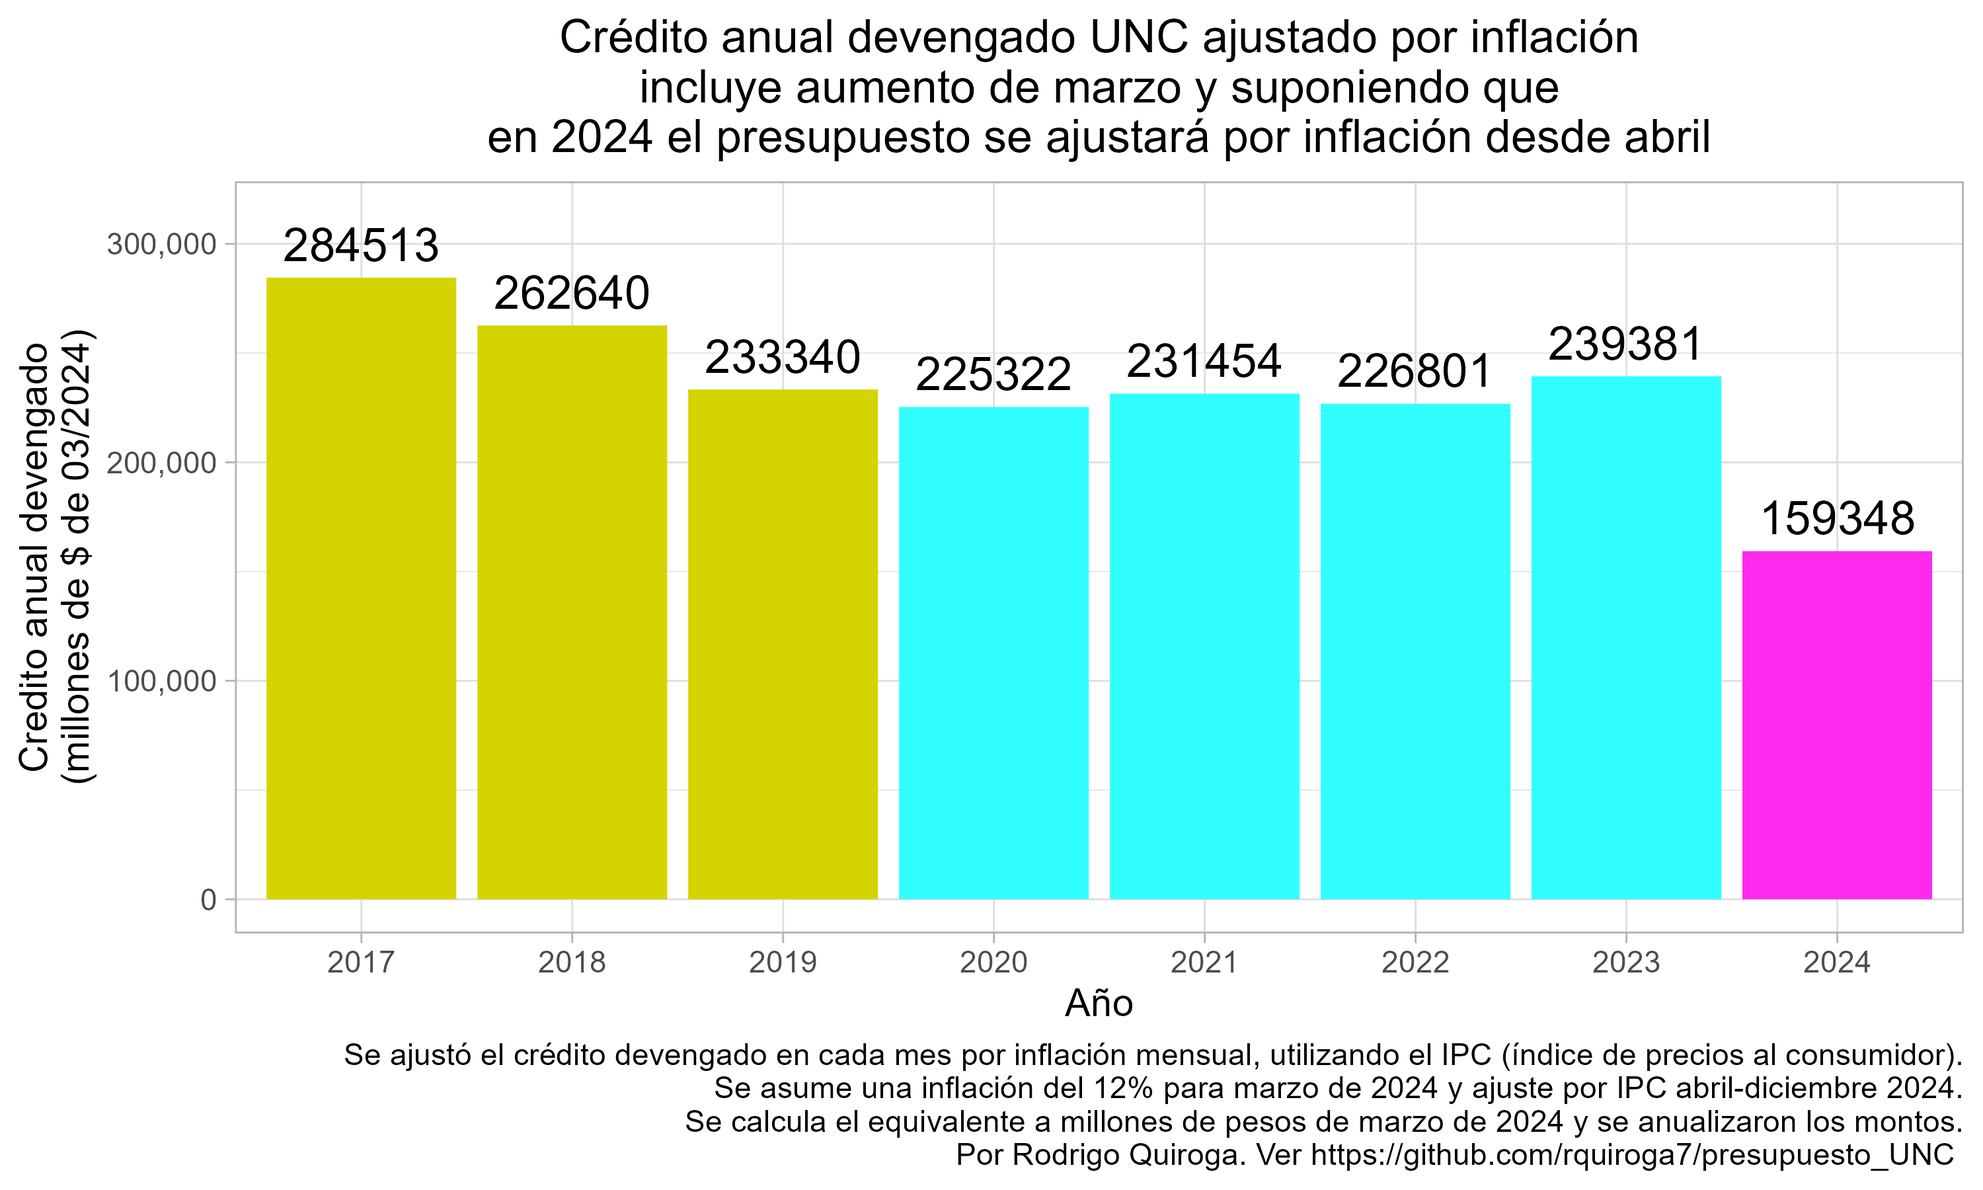
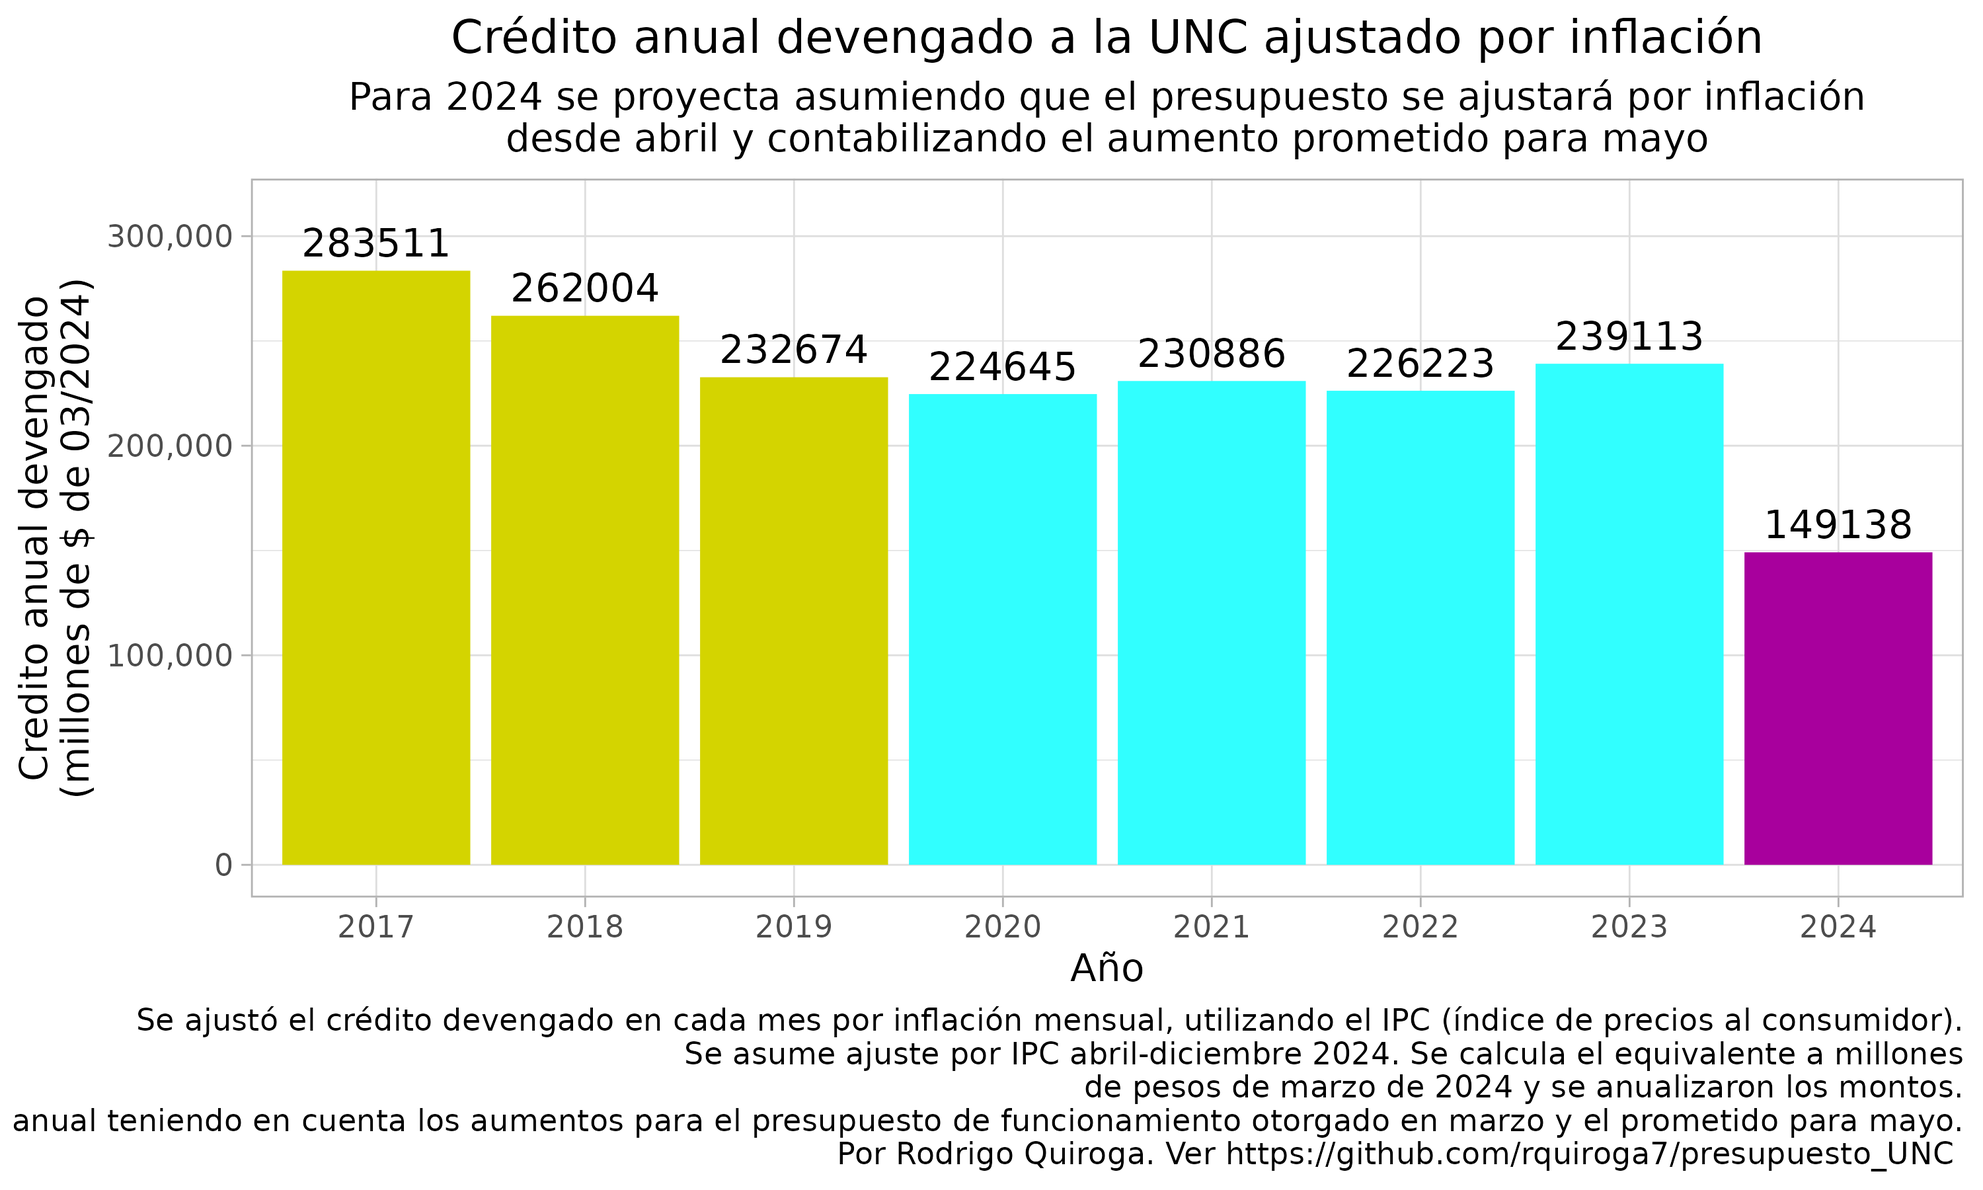
actualizo datos anuales con el aumento anunciado para mayo

diff --git a/README_UNC.md b/README_UNC.md
@@ -59,13 +59,15 @@ En el siguiente gráfico observamos el presupuesto mensual real (ajustado por in
 
 ![plot](https://github.com/rquiroga7/presupuesto_UNC/blob/main/plot_unc_14_70p_prom.png)
 
-Vemos que en Marzo de 2024, se otorgó un aumento del 70% del presupuesto mensual de funcionamiento equivalente a aprox 268 millones de pesos. Sin embargo, al ajustar por inflación, observamos que el presupuesto mensual para funcionamiento quedó licuado por la inflación. El monto devengado para funcionamiento en marzo representa aprox el 54% del promedio mensual devengado en 2023. Para equipararse con ese promedio, el aumento debiera haber sido no de 268 millones sino de 813 millones!
+Vemos que en Marzo de 2024, se otorgó un aumento del 70% del presupuesto mensual de funcionamiento equivalente a aprox 268 millones de pesos. Sin embargo, al ajustar por inflación, observamos que el presupuesto mensual para funcionamiento quedó licuado por la inflación. El monto devengado para funcionamiento en marzo representa aprox el 54% del promedio mensual devengado en 2023.
 
-Lo que significa esto a fines prácticos es que la UNC ha tenido que suspender actividades y/o está gastando ahorros para cubrir esa diferencia mensual entre lo que recibía el año pasado y éste. Esa diferencia fue de aprox 700 millones en enero, 750 millones en febrero y 550 millones en marzo. La situación es crítica! No puede ni debe la UNC continuar suspendiendo actividades de extensión, becas ni investigación, ni tampoco gastando ahorros que no tenían como destino original pagar la luz y otros gastos corrientes, sino servir para afrontar alguna emergencia, mejoras y refacciones edilicias o la construcción de nuevos edificios.
+Lo que significa esto a fines prácticos es que la UNC ha tenido que suspender actividades y/o está gastando ahorros para cubrir esa diferencia mensual entre lo que recibía el año pasado y éste. Esa diferencia fue de aprox 800 millones en enero, 850 millones en febrero y 600 millones en marzo. La situación es crítica! No puede ni debe la UNC continuar suspendiendo actividades de extensión, becas ni investigación, ni tampoco gastando ahorros que no tenían como destino original pagar la luz y otros gastos corrientes, sino servir para afrontar alguna emergencia, mejoras y refacciones edilicias o la construcción de nuevos edificios.
 
-El nuevo aumento que prometió el gobierno para mayo es de la misma cantidad nominal del aumento de marzo, es decir aprox 268 millones para la UNC. Previendo una inflación de 8% en abril y mayo, el presupuesto de funcionamiento de mayo sería aprox de 920 millones, pero serían necesarios 1400 millones para equiparar los montos de 2023. Seguiríamos necesitando un aumento de 480 millones adicionales!
+El nuevo aumento que prometió el gobierno para mayo es de la misma cantidad nominal del aumento de marzo, es decir aprox 268 millones para la UNC. El presupuesto de funcionamiento de mayo sería aprox de 920 millones, pero estimando una inflación de 8% en abril y mayo, serían necesarios 1500 millones para equiparar los montos de 2023. 
 
-Además, vale aclarar que con los [aumentos de tarifas de servicios previstos para 2024](https://www.infobae.com/economia/2024/04/05/tarifas-de-gas-todo-lo-que-hay-que-saber-y-de-cuanto-seran-los-nuevos-aumentos/), y el hecho de que [el gobierno eliminó a las instituciones educativas de los subsidios de energía eléctrica](https://www.datadiario.com/sociedad/aumentan-las-facturas-de-luz-para-usuarios-de-mayores-ingresos-20242518120), incluso un nuevo aumento del 120% podría ser insuficiente para afrontar los costos operativos del año 2024.
+Es decir, para equiparar el presupuesto de funcionamiento 2023, el aumento de mayo debería ser de 848 millones en lugar de los 268 millones que anunció el gobierno.
+
+Además, vale aclarar que con los [aumentos de tarifas de servicios previstos para 2024](https://www.infobae.com/economia/2024/04/05/tarifas-de-gas-todo-lo-que-hay-que-saber-y-de-cuanto-seran-los-nuevos-aumentos/), y el hecho de que [el gobierno eliminó a las instituciones educativas de los subsidios de energía eléctrica](https://www.datadiario.com/sociedad/aumentan-las-facturas-de-luz-para-usuarios-de-mayores-ingresos-20242518120), incluso un nuevo aumento del 120% del presupuesto de funcionamiento podría ser insuficiente para afrontar los costos operativos del año 2024.
 
 Como vemos, es absolutamente falso lo que declaró el Secretario de Educación Carlos Torrendel el 8 de abril [aquí](https://twitter.com/somoscorta/status/1777322866268139561). Sin dudas existe una política de desfinanciamiento presupuestario de las Universidades, y la situación es absolutamente crítica. Actualmente la UNC está gastando ahorros para poder seguir funcionando en este contexto, y en estos días se difundió la [noticia](https://www.lmneuquen.com/neuquen/no-la-dejemos-morir-la-universidad-nacional-del-comahue-entro-cesacion-pagos-n1104420) de que la Universidad Nacional del Comahue entró en cesación de pagos por no poder afrontar las boletas de servicios. Es la primera Universidad en esta situación, pero si no hay un nuevo aumento urgente del presupuesto de funcionamiento (que debería ser mayor al 83%), seguramente entrarán en cesación de pagos muchas otras universidades y será imposible afrontar la continuidad de las clases en el segundo cuatrimestre del año.
 
@@ -74,9 +76,9 @@ Vale aclarar que el Consejo Superior de la UNC aprobó por unanimidad un [comuni
 
 Presupuesto total
 -----------------
-Otro punto importante para aclarar, es que numerosos funcionarios del gobierno nacional están repitiendo el dato falso "en marzo hubo un aumento del 70% del presupuesto universitario", incluso [repetido por el vocero presidencial en conferencia de prensa](https://x.com/somoscorta/status/1776262854003310864). Como vimos arriba, esto es falso porque el aumento del 70% era del presupuesto de funcionamiento, y ese aumento está MUY por debajo del aumento necesario para compensar la inflación y aumento de tarifas.
+Otro punto importante para aclarar, es que numerosos funcionarios del gobierno nacional están repitiendo el dato falso "en marzo hubo un aumento del 70% del presupuesto universitario", incluso [repetido por el vocero presidencial en conferencia de prensa](https://x.com/somoscorta/status/1776262854003310864). Como vimos arriba, esto es falso porque el aumento del 70% era del presupuesto de funcionamiento, y ese aumento está MUY por debajo del aumento necesario para compensar la inflación y aumento de tarifas. Un aumento nominal similar (de 4 mil millones de pesos) fue anunciado para el mes de mayo de manera no oficial, ya que [dicho aumento aún no fue comunicado formalmente al CIN](https://x.com/CINoficial/status/1781155100582359130).
 
-En el siguiente gráfico observamos el presupuesto mensual real total (ajustado por inflación), para la Universidad Nacional de Córdoba. Se grafica también el promedio mensual 2023 como una línea punteada verde. Vemos que como explicamos en la introducción, el presupuesto de funcionamiento se fija en 12 cuotas iguales, por lo que los montos ajustados por inflación están por arriba del promedio anual durante los primeros meses del año y luego caen por debajo. Esto ocurre TODOS LOS AÑOS. Lo que no ocurrió, fue el aumento normal que ocurre con un nuevo presupuesto, que debería haber entrado en vigencia en enero de 2024.
+En el siguiente gráfico observamos el presupuesto mensual real total (ajustado por inflación), para la Universidad Nacional de Córdoba. Se grafica también el promedio mensual 2023 como una línea punteada verde (calculada sobre los meses sin aguinaldo). Vemos que como explicamos en la introducción, el presupuesto de funcionamiento se fija en 12 cuotas iguales, por lo que los montos ajustados por inflación están por arriba del promedio anual durante los primeros meses del año y luego caen por debajo. Esto ocurre TODOS LOS AÑOS. Lo que no ocurrió fue el aumento normal que ocurre con un nuevo presupuesto, que debería haber entrado en vigencia en enero de 2024.
 
 ![plot](https://github.com/rquiroga7/presupuesto_UNC/blob/main/plot_unc_all_70p_prom.png)
 
@@ -88,17 +90,17 @@ No sólo eso, sino que el presupuesto real de marzo está por debajo del presupu
 Ejecución presupuestaria anual para el período 2017-2024
 ============
 
-Para poner en contexto histórico el presupuesto 2024, realizamos el siguiente ejercicio. Realizamos la optimista presunción de que el presupuesto se ajustaría por inflación (IPC) a partir de abril, y comparamos ese presupuesto anual ajustado por inflación con años anteriores. Es decir, calculamos cual sería el presupuesto anual para 2024 si no hay aumentos del presupuesto y si a partir de abril se ajusta por IPC. Analizamos primero el presupuesto de funcionamiento y luego el presupuesto total.
+Para poner en contexto histórico el presupuesto 2024, realizamos el siguiente ejercicio. Realizamos la optimista presunción de que el presupuesto se ajustaría por inflación (IPC) a partir de abril, y comparamos ese presupuesto anual ajustado por inflación con años anteriores. Es decir, calculamos cual sería el presupuesto anual para 2024 si no hay aumentos del presupuesto y si a partir de abril se ajusta por IPC. Analizamos primero el presupuesto de funcionamiento y luego el presupuesto total. La proyección anual se realiza teniendo en cuenta tanto el aumento de marzo como el prometido para mayo de 2024.
 
 Presupuesto de funcionamiento (act 14):
 ![plot](https://github.com/rquiroga7/presupuesto_UNC/blob/main/UNC_presupuesto_anual_func_2017-2024.png)
 
-Observamos que sin aumentos adicionales, a pesar del aumento de 70% de marzo, el presupuesto de funcionamiento ajustado por inflación para 2024 es aproximadamente el 50% del presupuesto de 2023. También podemos observar que el presupuesto de funcionamiento 2024 sería incluso inferior al de 2020, cuando en plena pandemia las Universidades no funcionaron de manera presencial! Debería quedar claro que las Universidades son objeto de un ajuste presupuestario fenomenal, lo cual también confirma las afirmaciones del rector y vicerector de la UBA, quienes dijeron que [sin aumentos presupuestarios significativos será imposible afrontar un funcionamiento normal durante el segundo cuatrimestre](https://www.pagina12.com.ar/726980-la-universidad-publica-al-borde-del-abismo).
+Observamos que sin aumentos adicionales, a pesar del aumento de 70% de marzo y el prometido para mayo, el presupuesto de funcionamiento ajustado por inflación para 2024 equivale aproximadamente al 60% del presupuesto de 2023. También podemos observar que el presupuesto de funcionamiento 2024 sería incluso inferior al de 2020, cuando en plena pandemia las Universidades no funcionaron de manera presencial! Debería quedar claro que las Universidades son objeto de un ajuste presupuestario fenomenal, lo cual también confirma las afirmaciones del rector y vicerector de la UBA, quienes dijeron que [sin aumentos presupuestarios significativos será imposible afrontar un funcionamiento normal durante el segundo cuatrimestre](https://www.pagina12.com.ar/726980-la-universidad-publica-al-borde-del-abismo).
 
 Respecto al Presupuesto total:
 ![plot](https://github.com/rquiroga7/presupuesto_UNC/blob/main/UNC_presupuesto_anual_2017-2024.png)
 
-Observamos que el presupuesto sería el menor desde que se comenzaron a recopilar datos de Presupuesto Abierto. El presupuesto ajustado por inflación de 2024 representaría aproximadamente el 66% del presupuesto 2023.
+De no haber significativos aumentos durante 2024, el presupuesto universitario del corriente año sería por lejos el menor desde que se comenzaron a recopilar datos de Presupuesto Abierto. El presupuesto ajustado por inflación de 2024 representaría el 62% del presupuesto 2023.
 
 
 Consideraciones finales

diff --git a/README.md b/README.md
@@ -63,7 +63,9 @@ Vemos que en Marzo de 2024, se otorgó un aumento del 70% del presupuesto mensua
 
 Lo que significa esto a fines prácticos es que las universidades han tenido que suspender actividades y/o están gastando ahorros para cubrir esa diferencia mensual entre lo que recibían el año pasado y éste. Esa diferencia fue de aprox 12 mil millones en enero y febrero y 9 mil millones en marzo. La situación es crítica!
 
-El nuevo aumento que prometió el gobierno para mayo es nuevamente de 4 mil millones. Previendo una inflación de 8% en abril y mayo, el presupuesto de funcionamiento de mayo sería aprox de 14 mil millones, pero serían necesarios 22 mil millones para equiparar los montos de 2023. Seguiríamos necesitando un aumento de 8 mil millones de pesos adicionales por mes!
+El nuevo aumento que prometió el gobierno para mayo es nuevamente de 4 mil millones. El presupuesto de funcionamiento de mayo sería aprox de 14 mil millones, pero previendo una inflación de 8% en abril y mayo, eserían necesarios 22 mil millones para equiparar los montos reales de 2023. 
+
+Es decir, para equiparar el presupuesto de funcionamiento 2023, el aumento de mayo debería ser de 12 mil millones en lugar de los 4 mil que anunció el gobierno.
 
 Además, vale aclarar que con los [aumentos de tarifas de servicios previstos para 2024](https://www.infobae.com/economia/2024/04/05/tarifas-de-gas-todo-lo-que-hay-que-saber-y-de-cuanto-seran-los-nuevos-aumentos/), y el hecho de que [el gobierno eliminó a las instituciones educativas de los subsidios de energía eléctrica](https://www.datadiario.com/sociedad/aumentan-las-facturas-de-luz-para-usuarios-de-mayores-ingresos-20242518120), incluso un nuevo aumento del 120% podría ser insuficiente para afrontar los costos operativos del año 2024.
 
@@ -72,9 +74,9 @@ Como vemos, es absolutamente falso lo que declaró el Secretario de Educación C
 
 Presupuesto total
 -----------------
-Otro punto importante para aclarar, es que numerosos funcionarios del gobierno nacional están repitiendo el dato falso "en marzo hubo un aumento del 70% del presupuesto universitario", incluso [repetido por el vocero presidencial en conferencia de prensa](https://x.com/somoscorta/status/1776262854003310864). Como vimos arriba, esto es falso porque el aumento del 70% era del presupuesto de funcionamiento, y ese aumento está MUY por debajo del aumento necesario para compensar la inflación y aumento de tarifas.
+Otro punto importante para aclarar, es que numerosos funcionarios del gobierno nacional están repitiendo el dato falso "en marzo hubo un aumento del 70% del presupuesto universitario", incluso [repetido por el vocero presidencial en conferencia de prensa](https://x.com/somoscorta/status/1776262854003310864). Como vimos arriba, esto es falso porque el aumento del 70% era del presupuesto de funcionamiento, y ese aumento está MUY por debajo del aumento necesario para compensar la inflación y aumento de tarifas. Un aumento nominal similar (de 4 mil millones de pesos) fue anunciado para el mes de mayo de manera no oficial, ya que [dicho aumento aún no fue comunicado formalmente al CIN](https://x.com/CINoficial/status/1781155100582359130).
 
-En el siguiente gráfico observamos el presupuesto mensual real total (ajustado por inflación), de todas las Universidades Nacionales del país. Se grafica también el promedio mensual 2023 como una línea punteada verde (calculado sobre los meses sin aguinaldo).
+En el siguiente gráfico observamos el presupuesto mensual real total (ajustado por inflación), de todas las Universidades Nacionales del país. Se grafica también el promedio mensual 2023 como una línea punteada verde (calculado sobre los meses sin aguinaldo). Vemos que como explicamos en la introducción, el presupuesto de funcionamiento se fija en 12 cuotas iguales, por lo que los montos ajustados por inflación están por arriba del promedio anual durante los primeros meses del año y luego caen por debajo. Esto ocurre TODOS LOS AÑOS. Lo que no ocurrió fue el aumento normal que ocurre con un nuevo presupuesto, que debería haber entrado en vigencia en enero de 2024.
 
 ![plot](https://github.com/rquiroga7/presupuesto_UNC/blob/main/plot_all_70p_prom.png)
 
@@ -85,17 +87,17 @@ No sólo eso, sino que el presupuesto real de marzo está por debajo del presupu
 Ejecución presupuestaria anual para el período 2017-2024
 ============
 
-Para poner en contexto histórico el presupuesto 2024, realizamos el siguiente ejercicio. Realizamos la optimista presunción de que el presupuesto se ajustaría por inflación (IPC) a partir de abril, y comparamos ese presupuesto anual ajustado por inflación con años anteriores. Es decir, calculamos cual sería el presupuesto anual para 2024 si no hay aumentos del presupuesto y si a partir de abril se ajusta por IPC. Analizamos primero el presupuesto de funcionamiento y luego el presupuesto total.
+Para poner en contexto histórico el presupuesto 2024, realizamos el siguiente ejercicio. Realizamos la optimista presunción de que el presupuesto se ajustaría por inflación (IPC) a partir de abril, y comparamos ese presupuesto anual ajustado por inflación con años anteriores. Es decir, calculamos cual sería el presupuesto anual para 2024 si no hay aumentos del presupuesto y si a partir de abril se ajusta por IPC. Analizamos primero el presupuesto de funcionamiento y luego el presupuesto total. La proyección anual se realiza teniendo en cuenta tanto el aumento de marzo como el prometido para mayo de 2024.
 
 Presupuesto de funcionamiento (act 14):
 ![plot](https://github.com/rquiroga7/presupuesto_UNC/blob/main/presupuesto_anual_func_2017-2024.png)
 
-Observamos que sin aumentos adicionales, a pesar del aumento de 70% de marzo, el presupuesto de funcionamiento ajustado por inflación para 2024 es aproximadamente el 50% del presupuesto de 2023. También podemos observar que el presupuesto de funcionamiento 2024 sería incluso inferior al de 2020, cuando en plena pandemia las Universidades no funcionaron de manera presencial! Debería quedar claro que las Universidades son objeto de un ajuste presupuestario fenomenal, lo cual también confirma las afirmaciones del rector y vicerector de la UBA, quienes dijeron que [sin aumentos presupuestarios significativos será imposible afrontar un funcionamiento normal durante el segundo cuatrimestre](https://www.pagina12.com.ar/726980-la-universidad-publica-al-borde-del-abismo).
+Observamos que sin aumentos adicionales, a pesar del aumento de 70% de marzo y el prometido para mayo, el presupuesto de funcionamiento ajustado por inflación para 2024 equivale aproximadamente al 60% del presupuesto de 2023. También podemos observar que el presupuesto de funcionamiento 2024 sería incluso inferior al de 2020, cuando en plena pandemia las Universidades no funcionaron de manera presencial! Debería quedar claro que las Universidades son objeto de un ajuste presupuestario fenomenal, lo cual también confirma las afirmaciones del rector y vicerector de la UBA, quienes dijeron que [sin aumentos presupuestarios significativos será imposible afrontar un funcionamiento normal durante el segundo cuatrimestre](https://www.pagina12.com.ar/726980-la-universidad-publica-al-borde-del-abismo).
 
 Respecto al Presupuesto total:
 ![plot](https://github.com/rquiroga7/presupuesto_UNC/blob/main/presupuesto_anual_2017-2024.png)
 
-Observamos que el presupuesto sería el menor desde que se comenzaron a recopilar datos de Presupuesto Abierto. El presupuesto ajustado por inflación de 2024 representaría el 66% del presupuesto 2023.
+De no haber significativos aumentos durante 2024, el presupuesto universitario del corriente año sería por lejos el menor desde que se comenzaron a recopilar datos de Presupuesto Abierto. El presupuesto ajustado por inflación de 2024 representaría el 62% del presupuesto 2023.
 
 
 Consideraciones finales
